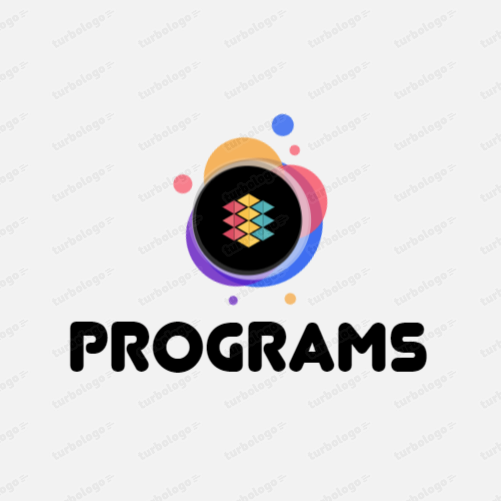
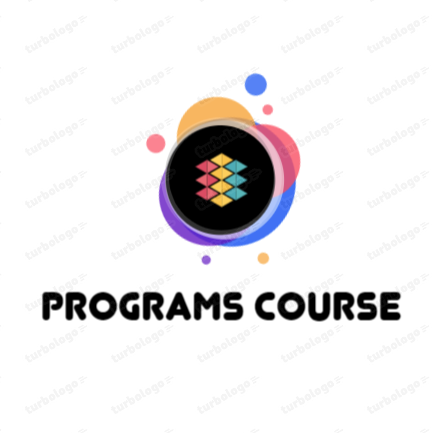
Add files via upload

Changed region(s): [[0.088, 0.1501, 0.9097, 0.7506]]

diff --git a/index.html b/index.html
@@ -5,7 +5,7 @@
     <meta name="keywords" content="Програмирование что это с чем его едят?">
     <meta name="description" content="">
     <meta name="page_type" content="np-template-header-footer-from-plugin">
-    <title>Programs</title>
+    <title>Programs Course</title>
     <link rel="stylesheet" href="общий.css" media="screen">
 <link rel="stylesheet" href="О-Програмирование.css" media="screen">
     <script class="u-script" type="text/javascript" src="jquery.js" defer=""></script>

diff --git a/О-Програмирование.html b/О-Програмирование.html
@@ -5,7 +5,7 @@
     <meta name="keywords" content="Програмирование что это с чем его едят?">
     <meta name="description" content="">
     <meta name="page_type" content="np-template-header-footer-from-plugin">
-    <title>Programs</title>
+    <title>Programs Course</title>
     <link rel="stylesheet" href="общий.css" media="screen">
 <link rel="stylesheet" href="О-Програмирование.css" media="screen">
     <script class="u-script" type="text/javascript" src="jquery.js" defer=""></script>

diff --git a/Помощь-по-предмету-информатика.html b/Помощь-по-предмету-информатика.html
@@ -5,7 +5,7 @@
     <meta name="keywords" content="Помошь">
     <meta name="description" content="">
     <meta name="page_type" content="np-template-header-footer-from-plugin">
-    <title>Programs</title>
+    <title>Programs Course</title>
     <link rel="stylesheet" href="общий.css" media="screen">
 <link rel="stylesheet" href="Помощь-по-предмету-информатика.css" media="screen">
     <script class="u-script" type="text/javascript" src="jquery.js" defer=""></script>

diff --git a/Python.html b/Python.html
@@ -5,7 +5,7 @@
     <meta name="keywords" content="Python">
     <meta name="description" content="">
     <meta name="page_type" content="np-template-header-footer-from-plugin">
-    <title>Programs</title>
+    <title>Programs Course</title>
     <link rel="stylesheet" href="общий.css" media="screen">
 <link rel="stylesheet" href="Python.css" media="screen">
     <script class="u-script" type="text/javascript" src="jquery.js" defer=""></script>

diff --git a/Веб.html b/Веб.html
@@ -5,7 +5,7 @@
     <meta name="keywords" content="Веб">
     <meta name="description" content="">
     <meta name="page_type" content="np-template-header-footer-from-plugin">
-    <title>Programs</title>
+    <title>Programs Course</title>
     <link rel="stylesheet" href="общий.css" media="screen">
 <link rel="stylesheet" href="Веб.css" media="screen">
     <script class="u-script" type="text/javascript" src="jquery.js" defer=""></script>
